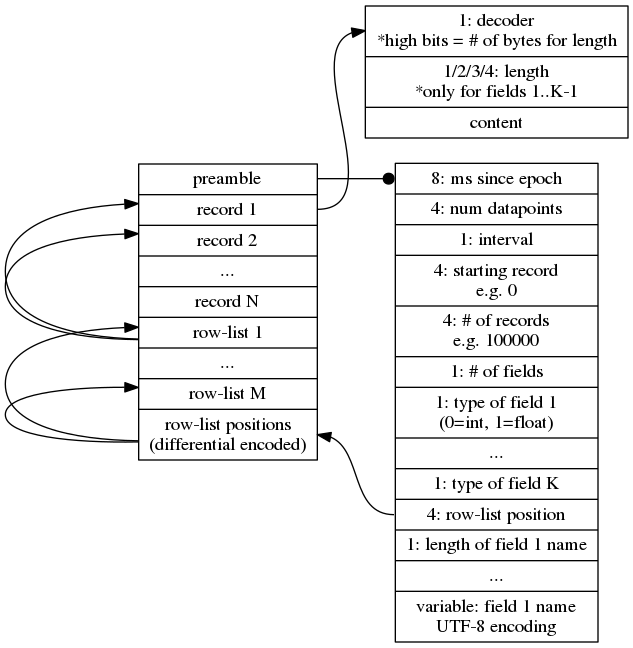
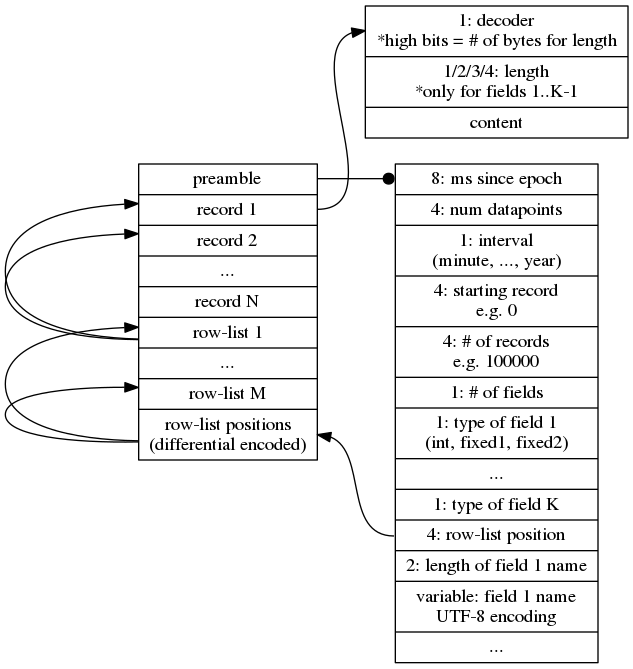
writer: Add writer code.
Doesn't do variable length encoding.

Doesn't do row-lists.

Doesn't do row-list positions.

diff --git a/format/src/test/java/com/cldellow/manu/format/WriterTest.java b/format/src/test/java/com/cldellow/manu/format/WriterTest.java
@@ -1,0 +1,169 @@
+package com.cldellow.manu.format;
+
+import org.junit.After;
+import org.junit.Test;
+
+import java.io.File;
+import java.io.FileNotFoundException;
+import java.io.IOException;
+import java.util.Arrays;
+import java.util.Iterator;
+
+import static org.junit.Assert.*;
+
+public class WriterTest {
+    private String dbLoc = "/tmp/manu-test.data";
+
+    @After
+    public void cleanup() throws Exception {
+        File f = new File(dbLoc);
+        if(f.exists())
+            f.delete();
+    }
+
+    @Test
+    public void testSingleField() throws Exception {
+        Long epochMs = System.currentTimeMillis();
+        int numDatapoints = 10;
+        Interval interval = Interval.DAY;
+        int recordOffset = 123;
+        int numRecords = 2;
+        String[] fieldNames = {"int"};
+        FieldType[] fieldTypes = {FieldType.INT};
+        FieldEncoder[] encoders = {new CopyEncoder()};
+        int[] datapoints = {1, 2, 3, 4, 5, 6, 7,8, 9, 10};
+        int[] datapoints2 = {2, 3, 4, 5, 6, 7, 8,9, 10, 11};
+
+        Record[] records = {
+                new SimpleRecord(encoders, new int[][] {datapoints}),
+                new SimpleRecord(encoders, new int[][] {datapoints2})
+        };
+
+        Writer.write(
+                dbLoc,
+                epochMs,
+                numDatapoints,
+                interval,
+                recordOffset,
+                numRecords,
+                fieldNames,
+                fieldTypes,
+                Arrays.asList(records).iterator());
+    }
+
+    @Test
+    public void testTwoField() throws Exception {
+        Long epochMs = System.currentTimeMillis();
+        int numDatapoints = 10;
+        Interval interval = Interval.DAY;
+        int recordOffset = 123;
+        int numRecords = 2;
+        String[] fieldNames = {"int", "decimal"};
+        FieldType[] fieldTypes = {FieldType.INT, FieldType.FIXED1};
+        FieldEncoder[] encoders = {new CopyEncoder(), new CopyEncoder()};
+        int[] datapoints = {1, 2, 3, 4, 5, 6, 7,8, 9, 10};
+        int[] datapoints2 = {2, 3, 4, 5, 6, 7, 8,9, 10, 11};
+
+        Record[] records = {
+                new SimpleRecord(encoders, new int[][] {datapoints, datapoints2}),
+                new SimpleRecord(encoders, new int[][] {datapoints2, datapoints})
+        };
+
+        Writer.write(
+                dbLoc,
+                epochMs,
+                numDatapoints,
+                interval,
+                recordOffset,
+                numRecords,
+                fieldNames,
+                fieldTypes,
+                Arrays.asList(records).iterator());
+    }
+
+    @Test(expected=IllegalArgumentException.class)
+    public void testTooFewRows() throws Exception {
+        Long epochMs = System.currentTimeMillis();
+        int numDatapoints = 10;
+        Interval interval = Interval.DAY;
+        int recordOffset = 123;
+        int numRecords = 2;
+        String[] fieldNames = {"int"};
+        FieldType[] fieldTypes = {FieldType.INT};
+        FieldEncoder[] encoders = {new CopyEncoder()};
+        int[] datapoints = {1, 2, 3, 4, 5, 6, 7,8, 9, 10};
+
+        Record[] records = {
+                new SimpleRecord(encoders, new int[][] {datapoints})
+        };
+
+        Writer.write(
+                dbLoc,
+                epochMs,
+                numDatapoints,
+                interval,
+                recordOffset,
+                numRecords,
+                fieldNames,
+                fieldTypes,
+                Arrays.asList(records).iterator());
+    }
+
+    @Test(expected=IllegalArgumentException.class)
+    public void testTooManyRows() throws Exception {
+        Long epochMs = System.currentTimeMillis();
+        int numDatapoints = 10;
+        Interval interval = Interval.DAY;
+        int recordOffset = 123;
+        int numRecords = 1;
+        String[] fieldNames = {"int"};
+        FieldType[] fieldTypes = {FieldType.INT};
+        FieldEncoder[] encoders = {new CopyEncoder()};
+        int[] datapoints = {1, 2, 3, 4, 5, 6, 7,8, 9, 10};
+
+        Record[] records = {
+                new SimpleRecord(encoders, new int[][] {datapoints}),
+                new SimpleRecord(encoders, new int[][] {datapoints})
+        };
+
+        Writer.write(
+                dbLoc,
+                epochMs,
+                numDatapoints,
+                interval,
+                recordOffset,
+                numRecords,
+                fieldNames,
+                fieldTypes,
+                Arrays.asList(records).iterator());
+    }
+
+    @Test(expected=IllegalArgumentException.class)
+    public void testFieldMismatch() throws Exception {
+        Long epochMs = System.currentTimeMillis();
+        int numDatapoints = 10;
+        Interval interval = Interval.DAY;
+        int recordOffset = 123;
+        int numRecords = 1;
+        String[] fieldNames = {"int"};
+        FieldType[] fieldTypes = {FieldType.INT, FieldType.INT};
+        FieldEncoder[] encoders = {new CopyEncoder()};
+        int[] datapoints = {1, 2, 3, 4, 5, 6, 7,8, 9, 10};
+
+        Record[] records = {
+                new SimpleRecord(encoders, new int[][] {datapoints}),
+                new SimpleRecord(encoders, new int[][] {datapoints})
+        };
+
+        Writer.write(
+                dbLoc,
+                epochMs,
+                numDatapoints,
+                interval,
+                recordOffset,
+                numRecords,
+                fieldNames,
+                fieldTypes,
+                Arrays.asList(records).iterator());
+    }
+}

diff --git a/format/src/main/java/com/cldellow/manu/format/Writer.java b/format/src/main/java/com/cldellow/manu/format/Writer.java
@@ -1,20 +1,83 @@
 package com.cldellow.manu.format;
 
+import me.lemire.integercompression.IntWrapper;
+
+import java.io.*;
 import java.util.Iterator;
 
 public class Writer {
-    public static void dos(Object[] xs) {}
     public static void write(
             String file,
             long epochMs,
+            int numDatapoints,
             Interval interval,
             int recordOffset,
             int numRecords,
             String[] fieldNames,
             FieldType[] fieldTypes,
-            Iterator<Record> records
+            Iterator<Record> records) throws FileNotFoundException, IOException, Exception {
+        if(fieldNames.length != fieldTypes.length)
+            throw new  IllegalArgumentException(
+                    String.format(
+                            "Number of field names (%d) does not match number of field types (%d).",
+                            fieldNames.length,
+                            fieldTypes.length));
 
-                        ) {
+        FileOutputStream fos = new FileOutputStream(file);
+        BufferedOutputStream bos = new BufferedOutputStream(fos);
+        DataOutputStream dos = new DataOutputStream(bos);
 
+        int rowListPosition = -1;
+        int[] recordPositions = new int[numRecords];
+        int currentRecord = 0;
+        int[] tmpArray = new int[131072];
+        IntWrapper outPos = new IntWrapper(0);
+        try {
+            dos.writeLong(epochMs);
+            dos.writeInt(numDatapoints);
+            dos.writeByte(interval.getValue());
+            dos.writeInt(recordOffset);
+            dos.writeInt(numRecords);
+            dos.writeByte(fieldNames.length);
+            for(FieldType fieldType : fieldTypes) {
+                dos.writeByte(fieldType.getValue());
+            }
+
+            // Stash rowListPosition so we can fix it up later.
+            rowListPosition = dos.size();
+            dos.writeInt(0); // write a dummy value so the space is allocated
+            for(String name : fieldNames) {
+                dos.writeUTF(name);
+            }
+            while(records.hasNext()) {
+                Record r = records.next();
+                if(currentRecord == numRecords)
+                    throwRecordNumberException(currentRecord, numRecords);
+                recordPositions[currentRecord] = dos.size();
+                currentRecord++;
+                for(int field = 0; field < fieldNames.length; field++) {
+                    FieldEncoder fe = r.getEncoder(field);
+                    outPos.set(0);
+                    fe.encode(r.getValues(field), tmpArray, outPos);
+                    // TODO: add variable length size encoding
+                    dos.writeByte(fe.id());
+                    dos.writeInt(outPos.get());
+                    for(int i = 0; i < outPos.get(); i++) {
+                        dos.writeInt(tmpArray[i]);
+                    }
+                }
+            }
+        } finally {
+            dos.flush();
+            dos.close();
+        }
+
+        if(numRecords != currentRecord)
+            throwRecordNumberException(currentRecord, numRecords);
+    }
+
+    private static void throwRecordNumberException(int currentRecord, int numRecords) {
+        throw new IllegalArgumentException(String.format(
+                "numRecords (%d) != currentRecord (%d)", numRecords, currentRecord));
     }
 }

diff --git a/format/src/main/java/com/cldellow/manu/format/SimpleRecord.java b/format/src/main/java/com/cldellow/manu/format/SimpleRecord.java
@@ -1,0 +1,20 @@
+package com.cldellow.manu.format;
+
+public class SimpleRecord implements Record {
+    public FieldEncoder[] encoders;
+    public int[][] values;
+
+    public SimpleRecord(FieldEncoder[] encoders, int[][] values) {
+        this.encoders = encoders;
+        this.values = values;
+    }
+
+
+    public int[] getValues(int field) {
+        return values[field];
+    }
+
+    public FieldEncoder getEncoder(int field) {
+        return encoders[field];
+    }
+}

diff --git a/format/src/main/java/com/cldellow/manu/format/CopyEncoder.java b/format/src/main/java/com/cldellow/manu/format/CopyEncoder.java
@@ -1,0 +1,14 @@
+package com.cldellow.manu.format;
+
+import me.lemire.integercompression.IntWrapper;
+
+// A dumb encoder - just copies src to dst; useful
+// for validating the rest of the system.
+public class CopyEncoder implements FieldEncoder {
+    public int id() { return 0; }
+
+    public void encode(int[] data, int[] output, IntWrapper outLength) {
+        System.arraycopy(data, 0, output, 0, data.length);
+        outLength.set(data.length);
+    }
+}

diff --git a/format/src/main/java/com/cldellow/manu/format/FieldEncoder.java b/format/src/main/java/com/cldellow/manu/format/FieldEncoder.java
@@ -1,4 +1,8 @@
 package com.cldellow.manu.format;
 
+import me.lemire.integercompression.IntWrapper;
+
 public interface FieldEncoder {
+    public int id();
+    public void encode(int[] data, int[] output, IntWrapper outLength);
 }
